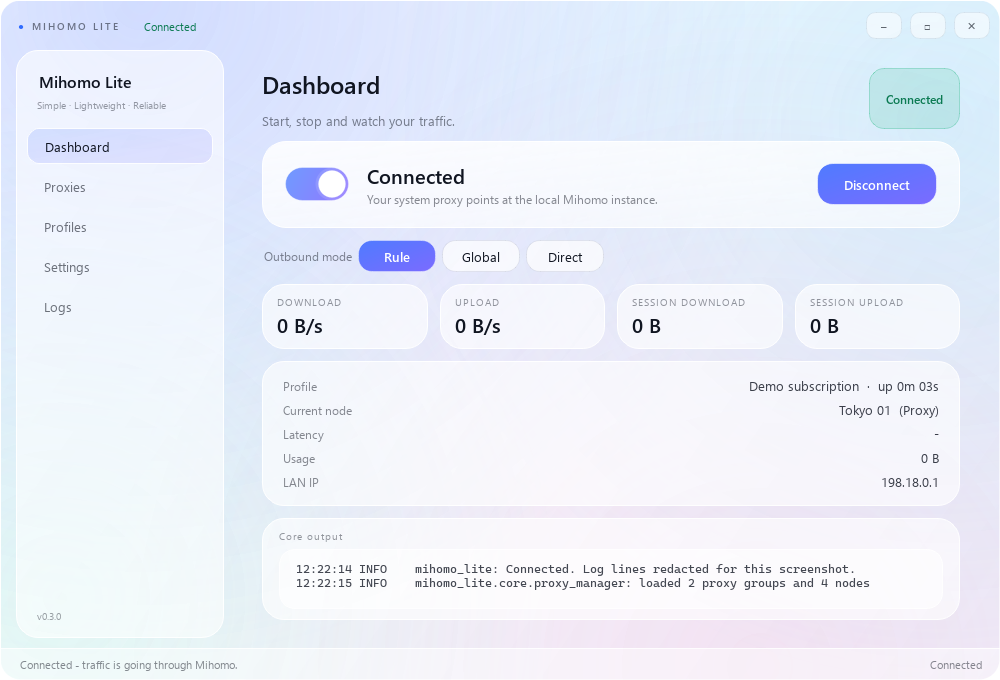
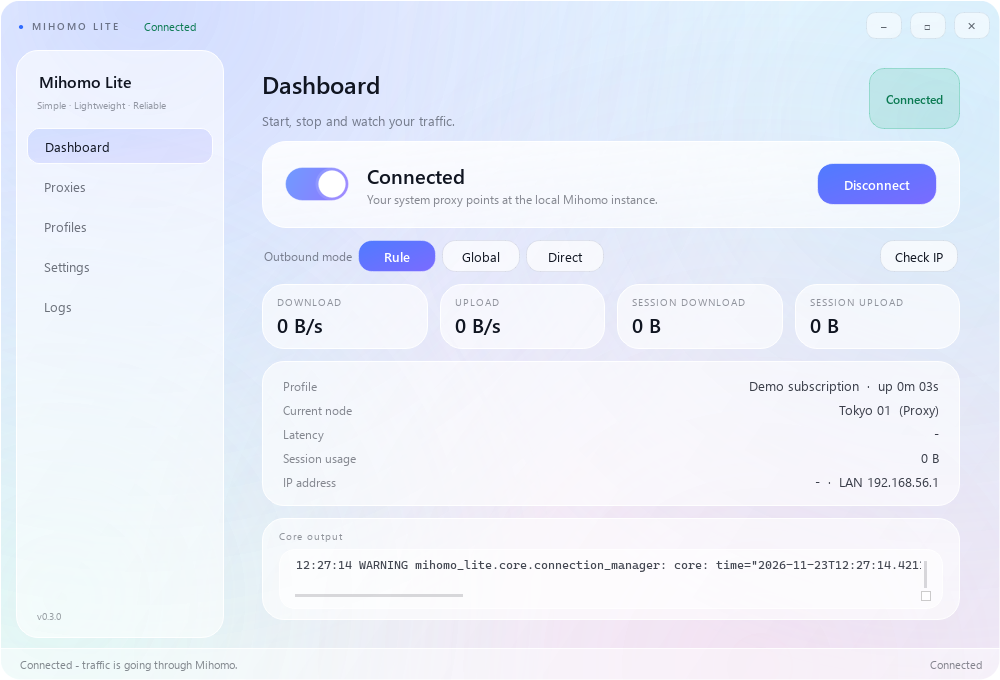
Dashboard: live public IP monitor with 60s refresh and manual check

diff --git a/src/mihomo_lite/ui/dashboard.py b/src/mihomo_lite/ui/dashboard.py
@@ -16,6 +16,7 @@ from PySide6.QtWidgets import (
     QWidget,
 )
 
+from mihomo_lite.core import net_tools
 from mihomo_lite.core.services import Services
 from mihomo_lite.core.traffic_monitor import TrafficSample, human_bytes, human_speed
 from mihomo_lite.i18n import tr
@@ -33,6 +34,8 @@ class DashboardPage(QWidget):
         super().__init__(parent)
         self._services = services
         self._last_sample = TrafficSample()
+        self._public_ip: str | None = None
+        self._ip_busy = False
         self._build()
 
         services.connection.state_changed.connect(self._on_state)
@@ -56,6 +59,13 @@ class DashboardPage(QWidget):
         self._delay_timer.timeout.connect(self._probe_current_node)
         self._delay_timer.start()
         QTimer.singleShot(3000, self._probe_current_node)
+
+        self._public_ip: str | None = None
+        self._ip_busy = False
+        self._ip_timer = QTimer(self)
+        self._ip_timer.setInterval(60000)
+        self._ip_timer.timeout.connect(self._check_public_ip)
+        self._ip_timer.start()
 
         self._on_state(services.connection.state)
         self._refresh_session()
@@ -140,6 +150,13 @@ class DashboardPage(QWidget):
             layout.addWidget(button)
             button.clicked.connect(lambda _checked=False, m=mode: self._set_mode(m))
         layout.addStretch(1)
+        self._ip_button = QPushButton("Check IP")
+        self._ip_button.setObjectName("Chip")
+        self._ip_button.setCursor(Qt.CursorShape.PointingHandCursor)
+        self._ip_button.setMinimumWidth(78)
+        self._ip_button.setEnabled(False)
+        self._ip_button.clicked.connect(self._on_ip_button)
+        layout.addWidget(self._ip_button)
         return bar
 
     def _build_metrics(self) -> QGridLayout:
@@ -167,13 +184,13 @@ class DashboardPage(QWidget):
         self._node_row = KeyValueRow("Current node")
         self._latency_row = KeyValueRow("Latency")
         self._usage_row = KeyValueRow("Session usage")
-        self._lan_row = KeyValueRow("LAN IP")
+        self._ip_row = KeyValueRow("IP address")
         for row in (
             self._profile_row,
             self._node_row,
             self._latency_row,
             self._usage_row,
-            self._lan_row,
+            self._ip_row,
         ):
             layout.addWidget(row)
         return card
@@ -250,14 +267,18 @@ class DashboardPage(QWidget):
         profile = self._services.profiles.active_profile()
         if session is not None:
             self._profile_row.set_value(f"{session.profile_name}  ·  up {self._uptime_text()}")
-            self._lan_row.set_value(local_ip())
+            self._ip_row.set_value(self._ip_text(local_ip()))
             self._refresh_current_node()
         else:
             self._profile_row.set_value(profile.name if profile else tr("none selected"))
             self._node_row.set_value("-")
             self._latency_row.set_value("-")
             self._usage_row.set_value("-")
-            self._lan_row.set_value(local_ip())
+            self._ip_row.set_value(self._ip_text(local_ip()))
+
+    def _ip_text(self, lan: str) -> str:
+        public = self._public_ip or "-"
+        return f"{public}  ·  LAN {lan}"
 
     def _current_group(self):
         for group in self._services.proxy.groups:
@@ -288,6 +309,33 @@ class DashboardPage(QWidget):
     def _on_node_stats(self, _stats: object) -> None:
         self._refresh_current_node()
 
+    def _check_public_ip(self) -> None:
+        if not self._services.connection.is_connected or self._ip_busy:
+            return
+        session = self._services.connection.session
+        if session is None:
+            return
+        self._ip_busy = True
+
+        def _ok(result: object) -> None:
+            self._ip_busy = False
+            address = getattr(result, "address", None)
+            if address:
+                self._public_ip = str(address)
+                self._ip_row.set_value(self._ip_text(local_ip()))
+
+        def _failed(_message: str) -> None:
+            self._ip_busy = False
+
+        self._services.runner.submit(
+            net_tools.fetch_public_ip, args=(session.proxy_server,), on_success=_ok, on_error=_failed
+        )
+
+    def _on_ip_button(self) -> None:
+        self._public_ip = None
+        self._ip_row.set_value(f"{tr('Checking…')}  ·  LAN {local_ip()}")
+        self._check_public_ip()
+
     def _probe_current_node(self) -> None:
         if not self._services.connection.is_connected:
             return
@@ -307,9 +355,14 @@ class DashboardPage(QWidget):
     def _on_mode_state(self, state: ConnectionState) -> None:
         for button in self._mode_buttons.values():
             button.setEnabled(state is ConnectionState.CONNECTED)
+        self._ip_button.setEnabled(state is ConnectionState.CONNECTED)
         if state is ConnectionState.CONNECTED:
             self._services.proxy.refresh()
             self._services.proxy.load_config()
+            QTimer.singleShot(1500, self._check_public_ip)
+        elif state in (ConnectionState.STOPPED, ConnectionState.ERROR):
+            self._public_ip = None
+            self._ip_row.set_value(f"-  ·  LAN {local_ip()}")
 
     def _on_traffic(self, sample: TrafficSample) -> None:
         self._last_sample = sample

diff --git a/src/mihomo_lite/i18n.py b/src/mihomo_lite/i18n.py
@@ -64,6 +64,8 @@ ZH: dict[str, str] = {
     "Latency": "延迟",
     "Usage": "用量",
     "Session usage": "本次用量",
+    "IP address": "IP 地址",
+    "Checking…": "检测中…",
     "LAN IP": "内网 IP",
     "Speed test": "测速",
     "Connect first.": "请先连接。",
